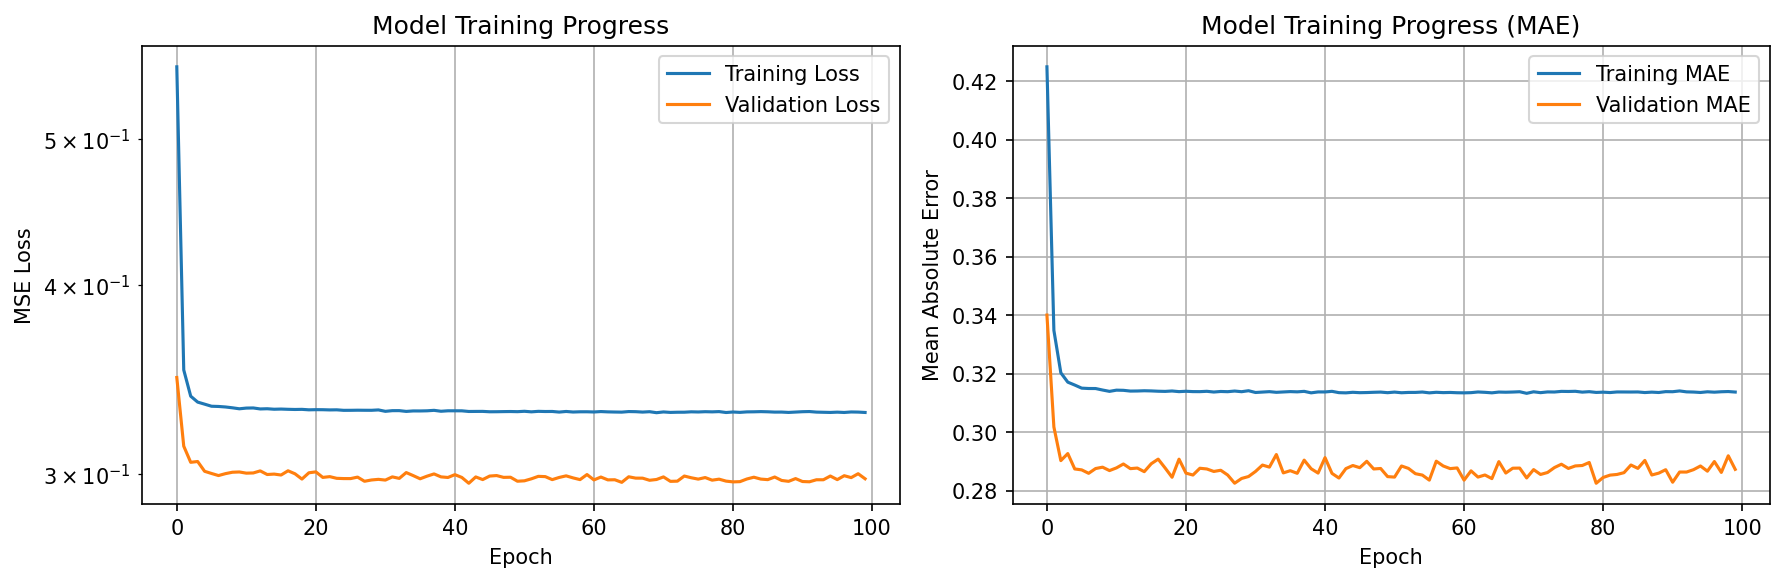
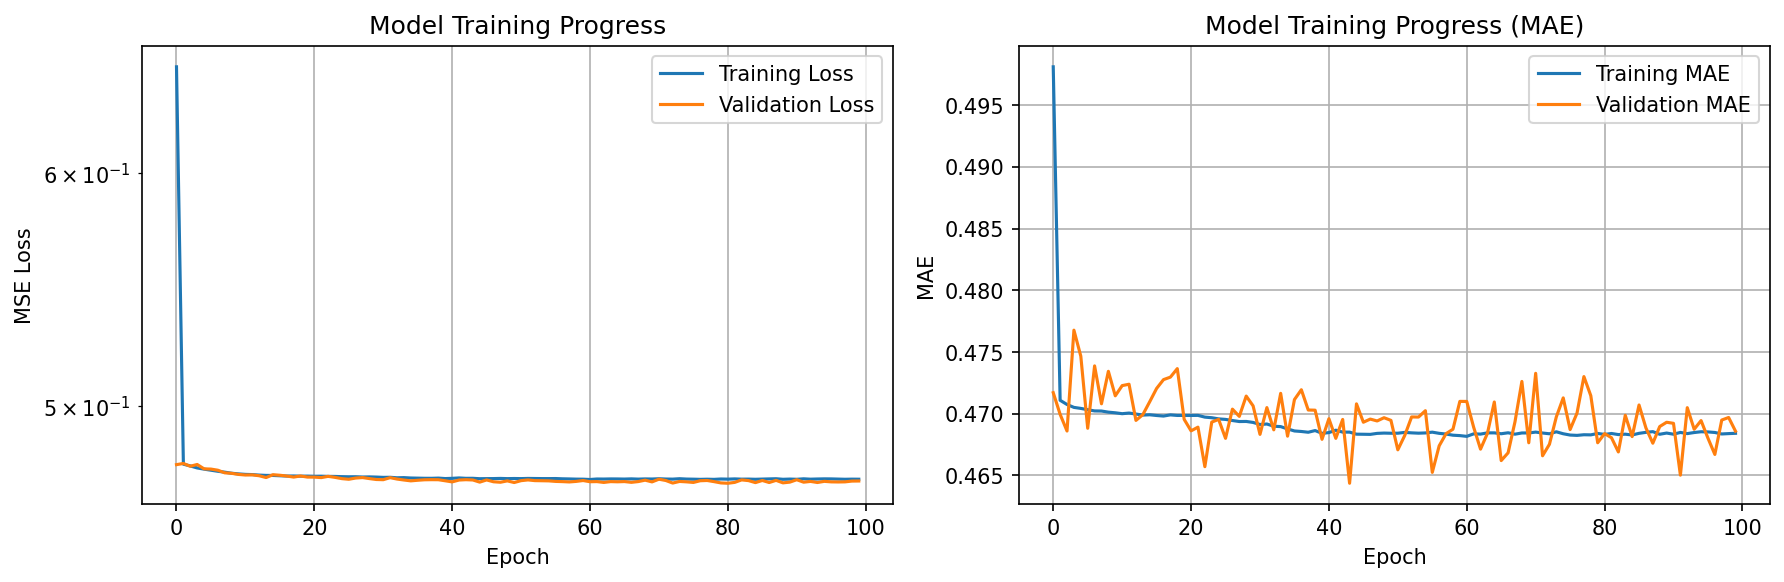
Fix model and simulation, update training results

diff --git a/models.py b/models.py
@@ -27,14 +27,6 @@ def mvdr_beamformer(received_signal, channel_vectors, desired_user_idx,
     Returns:
         estimated_symbols: Recovered symbols for desired user
         w_mvdr: Computed weight vector
-        
-    Step-by-step explanation:
-    1. Compute sample covariance matrix R from the received signal
-    2. Add diagonal loading for numerical stability (prevents singular matrix)
-    3. Extract steering vector for the desired user
-    4. Solve R * w = a_d using stable linear solver (not direct inversion)
-    5. Normalise the weights to satisfy distortionless constraint
-    6. Apply weights to received signal to extract the desired user
     """
     num_symbols = received_signal.shape[1]
     
@@ -44,27 +36,21 @@ def mvdr_beamformer(received_signal, channel_vectors, desired_user_idx,
     R = (Y.conj().T @ Y) / num_symbols
     
     # 2: diagonal loading for numerical stability
-    # This prevents matrix from being singular or ill-conditioned
-    # Especially important at high SNR where R can become nearly singular
     R = R + diagonal_loading * np.eye(R.shape[0])
     
-    # 3: xxtract steering vector for desired user
+    # 3: extract steering vector for desired user
     a_d = channel_vectors[desired_user_idx, :]
     
     # 4: Solve R * w_numerator = a_d using stable solver
-    # This is more stable than computing R_inv = inv(R) then R_inv @ a_d
-    # np.linalg.solve uses LU decomposition which is numerically robust
     w_numerator = np.linalg.solve(R, a_d)
     
     # 5: Compute denominator for normalisation
-    # This ensures unit gain in desired direction (distortionless constraint)
     denominator = a_d.conj().T @ w_numerator
     
     # 6: Final MVDR weights
     w_mvdr = w_numerator / denominator
     
     # 7: Apply beamformer weights to received signal
-    # This performs spatial filtering to extract the desired signal
     estimated_symbols = w_mvdr.conj().T @ received_signal
     
     return estimated_symbols, w_mvdr
@@ -72,62 +58,38 @@ def mvdr_beamformer(received_signal, channel_vectors, desired_user_idx,
 
 def create_dl_model(num_antennas, learning_rate=0.001, dropout_rate=0.2):
     """
-    Creates an improved deep learning model for beamforming
-    
-    Architecture improvements over original:
-    1. Deeper network (3 hidden layers instead of 2)
-    2. Batch Normalisation for training stability
-    3. Dropout for regularisation (prevents overfitting)
-    4. L2 weight regularisation
-    5. Wider layers (256 neurons instead of 128)
+    Creates the deep learning model for beamforming.
     
     The network learns to map:
-        Input: Received signal at antenna array (complex, split into real/imag)
-        Output: Transmitted symbol of desired user (complex, split into real/imag)
-    
-    Args:
-        num_antennas: Number of antennas (determines input size)
-        learning_rate: Adam optimiser learning rate
-        dropout_rate: Fraction of neurons to drop during training
-        
-    Returns:
-        Compiled Keras model
-        
-    Explanation of each layer:
-    - Input: 2*num_antennas (real and imaginary parts concatenated)
-    - Dense(256) + ReLU: First feature extraction layer
-    - Batch Normalisation: Normalises activations, speeds up training
-    - Dropout(0.2): Randomly drops 20% of neurons, prevents overfitting
-    - Dense(256) + ReLU: Second feature extraction layer
-    - Dense(128) + ReLU: Third feature extraction layer (deeper processing)
-    - Dense(2) linear: Output layer (real and imag of symbol)
+        Input: Received signal (Real + Imaginary parts)
+        Output: Transmitted symbol of desired user
     """
+    # Calculate input shape: 16 antennas * 2 (Real/Imag) = 32 features
+    input_dim = num_antennas * 2
+    
     model = Sequential([
-        # Input layer receives concatenated real and imaginary parts
-        Input(shape=(num_antennas * 2,)),
+        # Input layer
+        Input(shape=(input_dim,)),
         
-        # First hidden layer for wide feature extraction
+        # First hidden layer
         Dense(256, activation='relu', kernel_regularizer=l2(0.001)),
-        BatchNormalization(),  # Normalize activations
-        Dropout(dropout_rate),  # Regularization
+        BatchNormalization(),
+        Dropout(dropout_rate),
         
         # Second hidden layer
         Dense(256, activation='relu', kernel_regularizer=l2(0.001)),
         BatchNormalization(),
         Dropout(dropout_rate),
         
-        # Third hidden layer for deeper processing
+        # Third hidden layer
         Dense(128, activation='relu', kernel_regularizer=l2(0.001)),
         BatchNormalization(),
         Dropout(dropout_rate),
         
-        # Output layer, 2 neurons for real and imaginary parts
+        # Output layer (Real and Imag parts of the symbol)
         Dense(2, activation='linear')
     ])
     
-    # Compile with Adam optimiser and MSE loss
-    # MSE (Mean Squared Error) measures average squared difference between
-    # predicted and actual symbols
     optimizer = tf.keras.optimizers.Adam(learning_rate=learning_rate)
     model.compile(optimizer=optimizer, loss='mse', metrics=['mae'])
     
@@ -136,34 +98,23 @@ def create_dl_model(num_antennas, learning_rate=0.001, dropout_rate=0.2):
 
 def prepare_dl_data(received_signal, transmitted_symbols, desired_user_idx):
     """
-    Prepares data for training/testing the DL model
+    Prepares data for training/testing the DL model.
     
-    Converts complex-valued signals to real-valued format by splitting
-    into real and imaginary components
-    
-    Args:
-        received_signal: (num_antennas x num_symbols) complex array
-        transmitted_symbols: (num_users x num_symbols) complex array
-        desired_user_idx: Which user's symbols to predict
-        
-    Returns:
-        X: Input features (num_symbols x 2*num_antennas)
-        Y: Target labels (num_symbols x 2)
-        
-    Why we split complex into real/imaginary:
-    Neural networks expect real-valued inputs, but our signals are complex
-    By concatenating [real_part, imag_part], we preserve all information
-    while making it compatible with standard neural network frameworks
+    Converts complex-valued signals to real-valued format.
+    Returns X with shape (samples, 32).
     """
     # Convert received signal from (antennas x symbols) to (symbols x antennas)
     X_complex = received_signal.T
     
     # Split into real and imaginary, then concatenate horizontally
-    # Shape: (num_symbols, 2*num_antennas)
+    # Shape becomes: (num_symbols, 2*num_antennas)
     X = np.hstack([np.real(X_complex), np.imag(X_complex)])
     
-    # Extract the desired user's symbols and convert to (samples x 2) format
-    Y_complex = transmitted_symbols[desired_user_idx, :].T
-    Y = np.column_stack([np.real(Y_complex), np.imag(Y_complex)])
-    
-    return X, Y
+    # Extract the desired user's symbols if provided (for training)
+    if transmitted_symbols is not None:
+        Y_complex = transmitted_symbols[desired_user_idx, :].T
+        Y = np.column_stack([np.real(Y_complex), np.imag(Y_complex)])
+        return X, Y
+    else:
+        # For inference where we might not have labels (though in this sim we do)
+        return X, None

diff --git a/simulation.py b/simulation.py
@@ -3,29 +3,12 @@ from tqdm import tqdm
 
 def generate_simulation_data(num_antennas, num_users, snr_db, num_symbols):
     """
-    Generates simulation data for a 5G multi-user environment
-    
-    Args:
-        num_antennas: Number of antennas at base station
-        num_users: Number of simultaneous users
-        snr_db: Signal-to-Noise Ratio in decibels
-        num_symbols: Number of symbols to generate
-        
-    Returns:
-        Dictionary containing all simulation data
-        
-    Explanation of what each step does:
-    1. Place users randomly in a semi-circle around the base station
-    2. Generate random BPSK symbols (+1 or -1) for each user
-    3. Create channel vectors based on angles of arrival (steering vectors)
-    4. Mix all user signals together at the antenna array
-    5. Add noise based on the specified SNR
+    Generates simulation data for a 5G multi-user environment.
     """
     # Geometry Setup - Place base station at origin
     gNB_position = np.array([0, 0])
     
     # Place users in a 180-degree arc (front of base station)
-    # between 50m and 200m away
     user_radius_min, user_radius_max = 50, 200
     user_angles = np.random.uniform(-np.pi/2, np.pi/2, num_users)
     user_radii = np.random.uniform(user_radius_min, user_radius_max, num_users)
@@ -38,40 +21,33 @@ def generate_simulation_data(num_antennas, num_users, snr_db, num_symbols):
     desired_user_idx = 0
     interferer_indices = [i for i in range(num_users) if i != desired_user_idx]
 
-    # Signal Generation - BPSK modulation (binary phase shift keying)
-    # Each symbol is either +1 or -1
+    # Signal Generation - BPSK modulation (+1 or -1)
     transmitted_symbols = np.random.choice([-1, 1], size=(num_users, num_symbols))
     
-    # Channel Model - Create steering vectors for each user
-    # These represent how signals from each direction arrive at the array
+    # Channel Model - Create steering vectors
     angles_of_arrival = np.arctan2(user_positions[:, 1], user_positions[:, 0])
     antenna_indices = np.arange(num_antennas)
     
-    # Steering vector formula: exp(-j*pi*sin(theta)*antenna_position)
-    # This creates the spatial signature of each user
+    # Steering vector formula
     channel_vectors = np.exp(
         -1j * np.pi * np.sin(angles_of_arrival[:, np.newaxis]) * antenna_indices
     )
 
     # Received Signal - Superposition of all user signals
-    # Matrix multiplication: (num_antennas x num_users) @ (num_users x num_symbols)
-    # Result: (num_antennas x num_symbols)
     received_signal_noiseless = channel_vectors.T @ transmitted_symbols
     
-    # Noise Addition - Calculate noise power based on SNR
-    # SNR = Signal_Power / Noise_Power
+    # Noise Addition
     signal_power = np.mean(np.abs(received_signal_noiseless)**2)
-    snr_linear = 10**(snr_db / 10)  # Convert dB to linear scale
+    snr_linear = 10**(snr_db / 10)
     noise_power = signal_power / snr_linear
     
-    # Generate complex Gaussian noise (divide by 2 for I and Q components)
     noise = np.sqrt(noise_power / 2) * (
         np.random.randn(*received_signal_noiseless.shape) + 
         1j * np.random.randn(*received_signal_noiseless.shape)
     )
     received_signal_with_noise = received_signal_noiseless + noise
 
-    # Package everything into a dictionary for easy access
+    # Package everything into a dictionary
     sim_data = {
         "received_signal": received_signal_with_noise,
         "transmitted_symbols": transmitted_symbols,
@@ -89,22 +65,6 @@ def generate_training_data(num_antennas, num_users, snr_range_db,
                           num_symbols_per_snr, num_realisations=10):
     """
     Generate comprehensive training dataset across multiple SNR levels.
-    
-    This creates a more robust training set by:
-    1. Sampling from multiple SNR conditions
-    2. Creating multiple channel realisations (different user positions)
-    3. Aggregating into one large diverse dataset
-    
-    Args:
-        num_antennas: Number of antennas
-        num_users: Number of users per realisation
-        snr_range_db: Array of SNR values to sample from (e.g., [-10, -5, 0, 5, 10])
-        num_symbols_per_snr: Symbols to generate per SNR point
-        num_realisations: Number of different channel realisations per SNR
-        
-    Returns:
-        X_train: Input features (real and imag parts of received signal)
-        Y_train: Target labels (real and imag parts of desired symbol)
     """
     X_list = []
     Y_list = []
@@ -113,28 +73,31 @@ def generate_training_data(num_antennas, num_users, snr_range_db,
     
     for snr_db in tqdm(snr_range_db, desc="Generating Data", unit="SNR"):
         for realisation in range(num_realisations):
-            # Generate a new channel realisation (different user positions)
+            # Generate a new channel realisation
             sim_data = generate_simulation_data(
                 num_antennas, num_users, snr_db, num_symbols_per_snr
             )
             
-            # Extract received signal and desired symbols
+            # Extract data
             received_signal = sim_data["received_signal"]
             desired_symbols = sim_data["transmitted_symbols"][
                 sim_data["desired_user_idx"], :
             ]
             
-            # Convert complex to real (split into I and Q components)
-            X_complex = received_signal.T  # Shape: (num_symbols, num_antennas)
+            # --- THE FIX IS HERE ---
+            # Ensure we only take Real and Imag parts of the signal.
+            # Dimensions: (Symbols x 16) -> (Symbols x 32)
+            X_complex = received_signal.T 
             X_real = np.hstack([np.real(X_complex), np.imag(X_complex)])
             
+            # Prepare targets
             Y_complex = desired_symbols
             Y_real = np.column_stack([np.real(Y_complex), np.imag(Y_complex)])
             
             X_list.append(X_real)
             Y_list.append(Y_real)
     
-    # Concatenate all data and shuffle
+    # Concatenate all data
     X_train = np.vstack(X_list)
     Y_train = np.vstack(Y_list)
     
